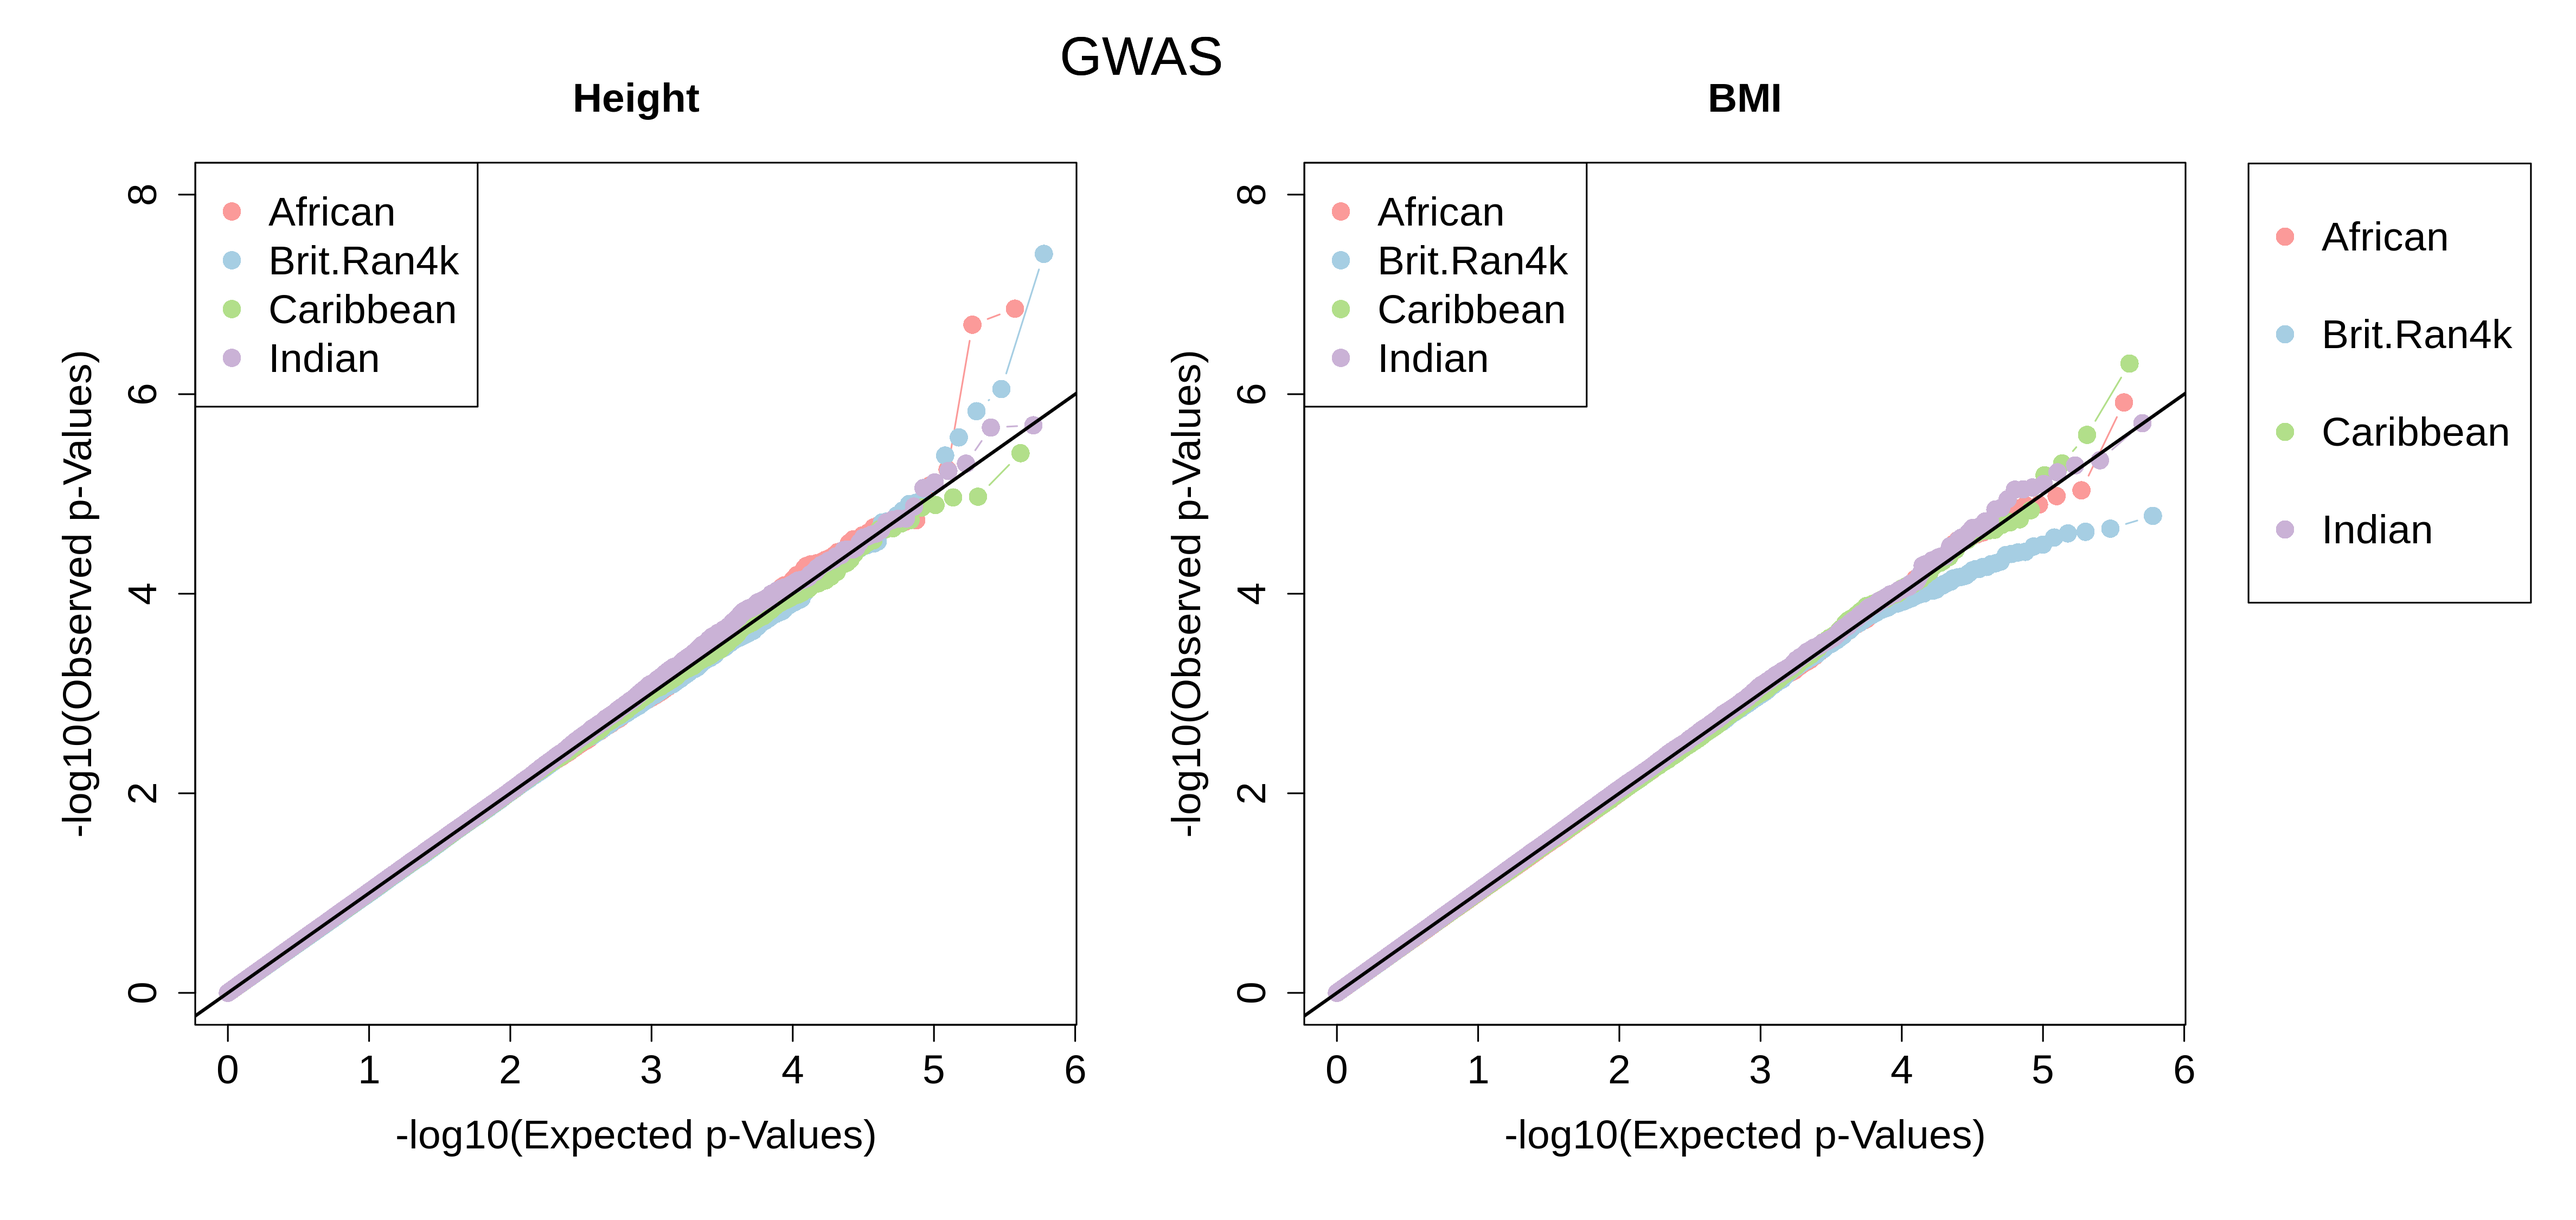
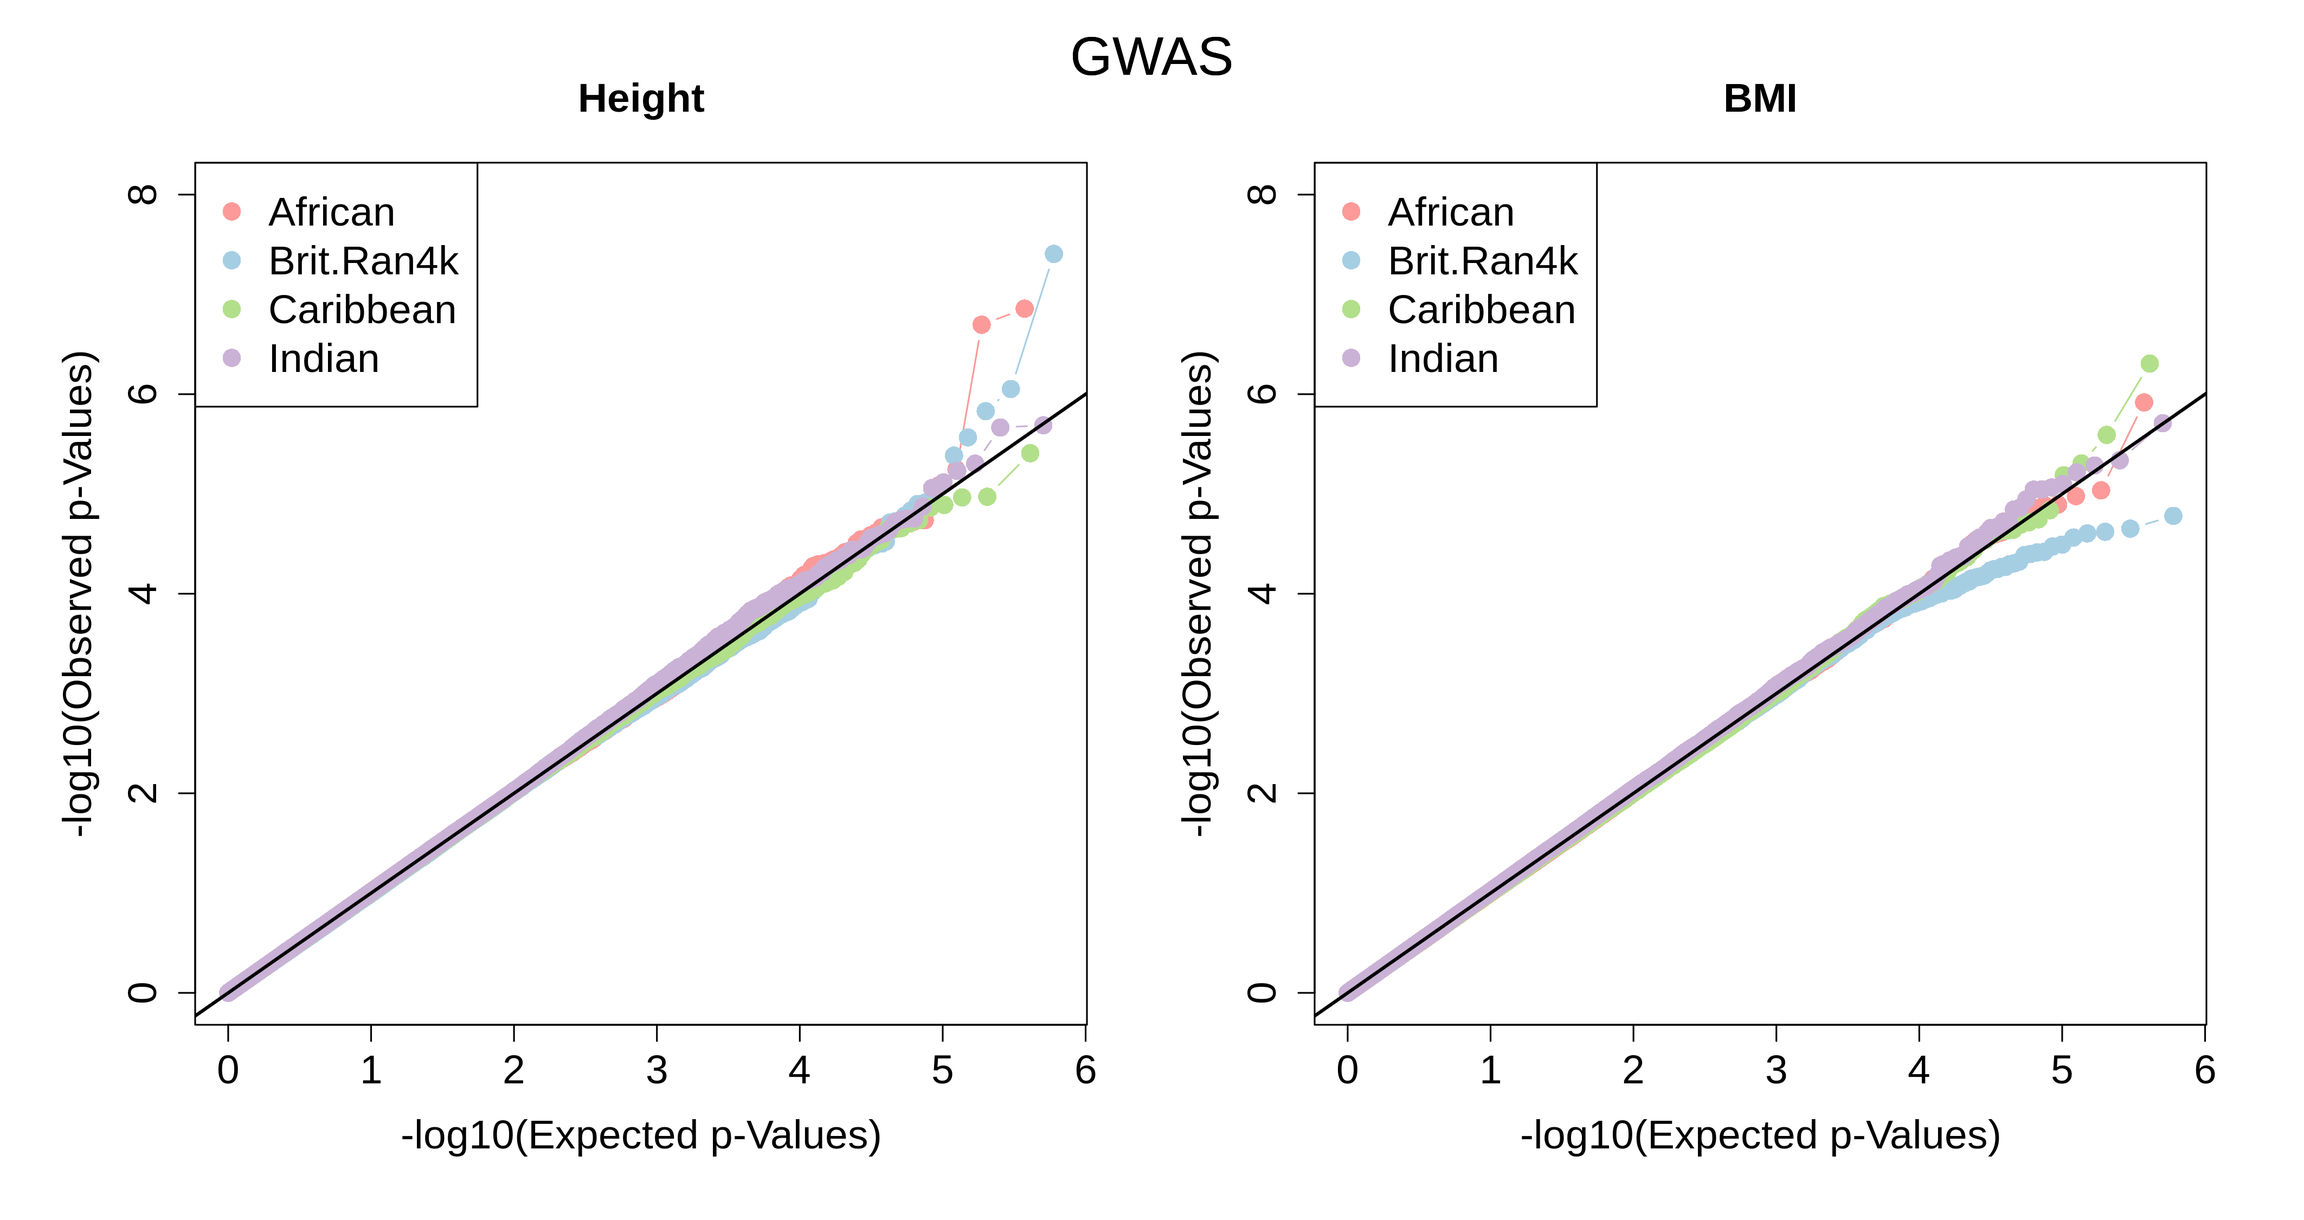
figure updates (single-SNP subsection)

diff --git a/Main.tex b/Main.tex
@@ -194,8 +194,8 @@ Running MAPIT on our four population subsets for both height and BMI, we find th
 
 \begin{figure}[htbp]
 \centering
-\includegraphics[scale=.35]{Images/Main/InterPath_Main_Figure_MAPIT_vs1.png}
-\caption[TBD]{\textbf{MAPIT Results QQ-Plots \red{(OLD DATA)}}. Shown are QQ-plots of our results from running MAPIT on our four initial UKB population subsets in height and BMI. On the $x$-axis are the -$\log_{10}$ of our expected $p$-values and the on the $y$-axis are on the -$\log_{10}$ of our observed $p$-values. We observe weak signals of marginal epistasis across most of the population subsets in height and only a few potential weak signals in BMI. We do observe potential differences across population subsets. However, this lack of signal may be a product of our limited sample sizes, emphasizing the need to increase power through other means, such as by methodological improvements.}
+\includegraphics[scale=.35]{Images/Main/InterPath_Main_Figure_MAPIT_vs2.png}
+\caption[TBD]{\textbf{MAPIT Results QQ-Plots \red{(OLD DATA)}}. \textcolor{red}{NOTE -- plan is to only show height results (and have BMI figures as supplementary).} Shown are QQ-plots of our results from running MAPIT on our four initial UKB population subsets in height and BMI. On the $x$-axis are the -$\log_{10}$ of our expected $p$-values and the on the $y$-axis are on the -$\log_{10}$ of our observed $p$-values. We observe weak signals of marginal epistasis across most of the population subsets in height and only a few potential weak signals in BMI. We do observe potential differences across population subsets. However, this lack of signal may be a product of our limited sample sizes, emphasizing the need to increase power through other means, such as by methodological improvements.}
 \label{InterPath-Main-Figure-MAPIT}
 \end{figure}
 
